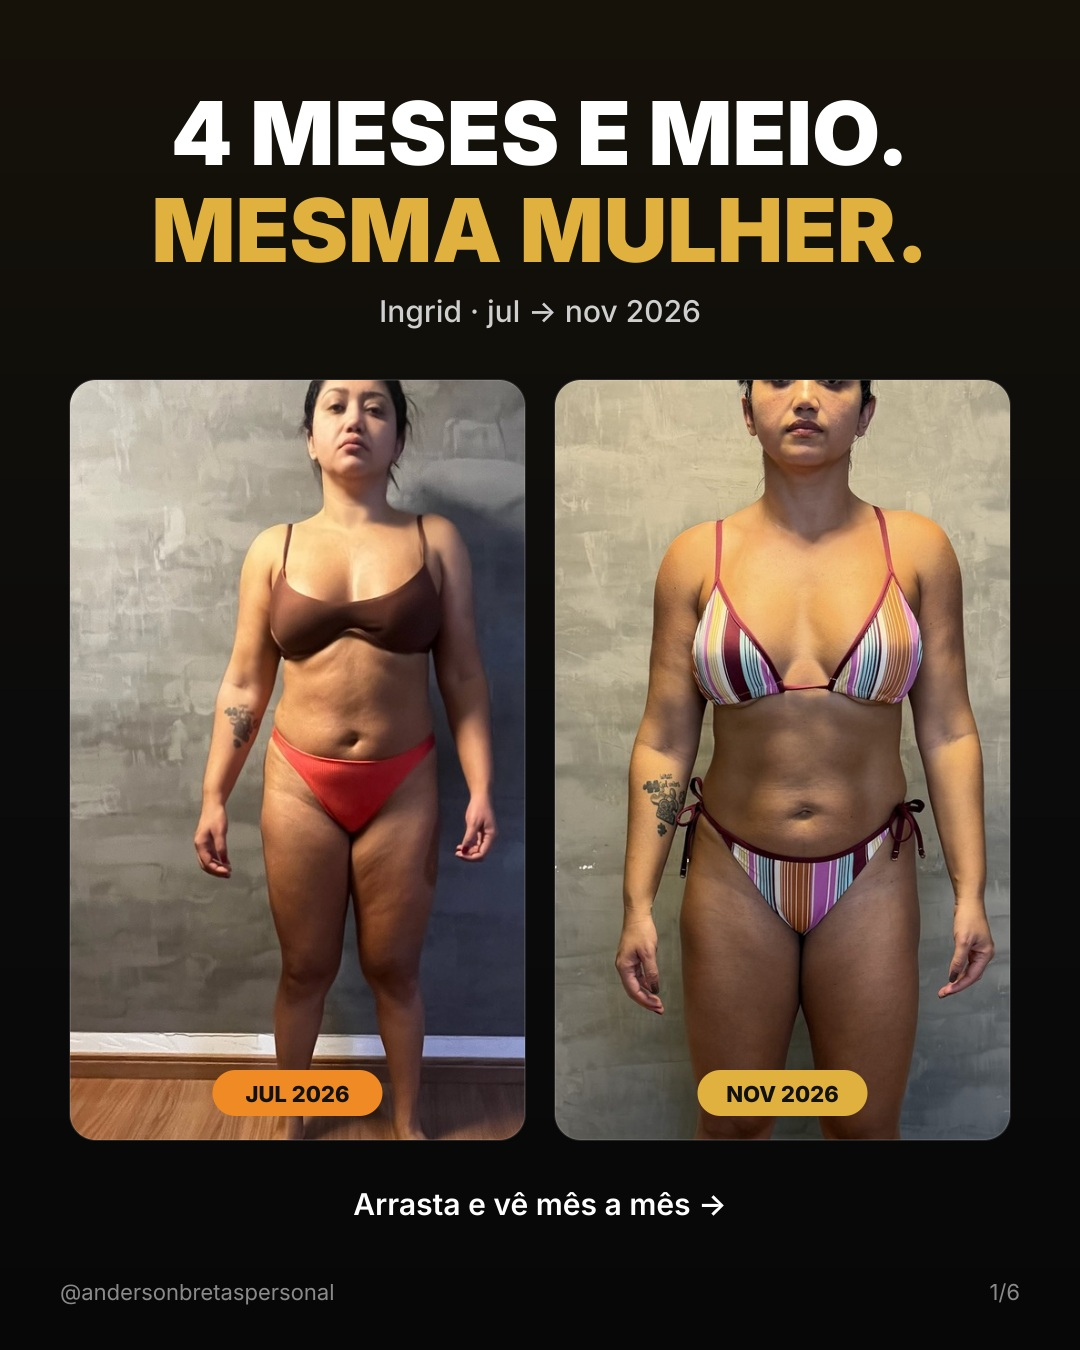
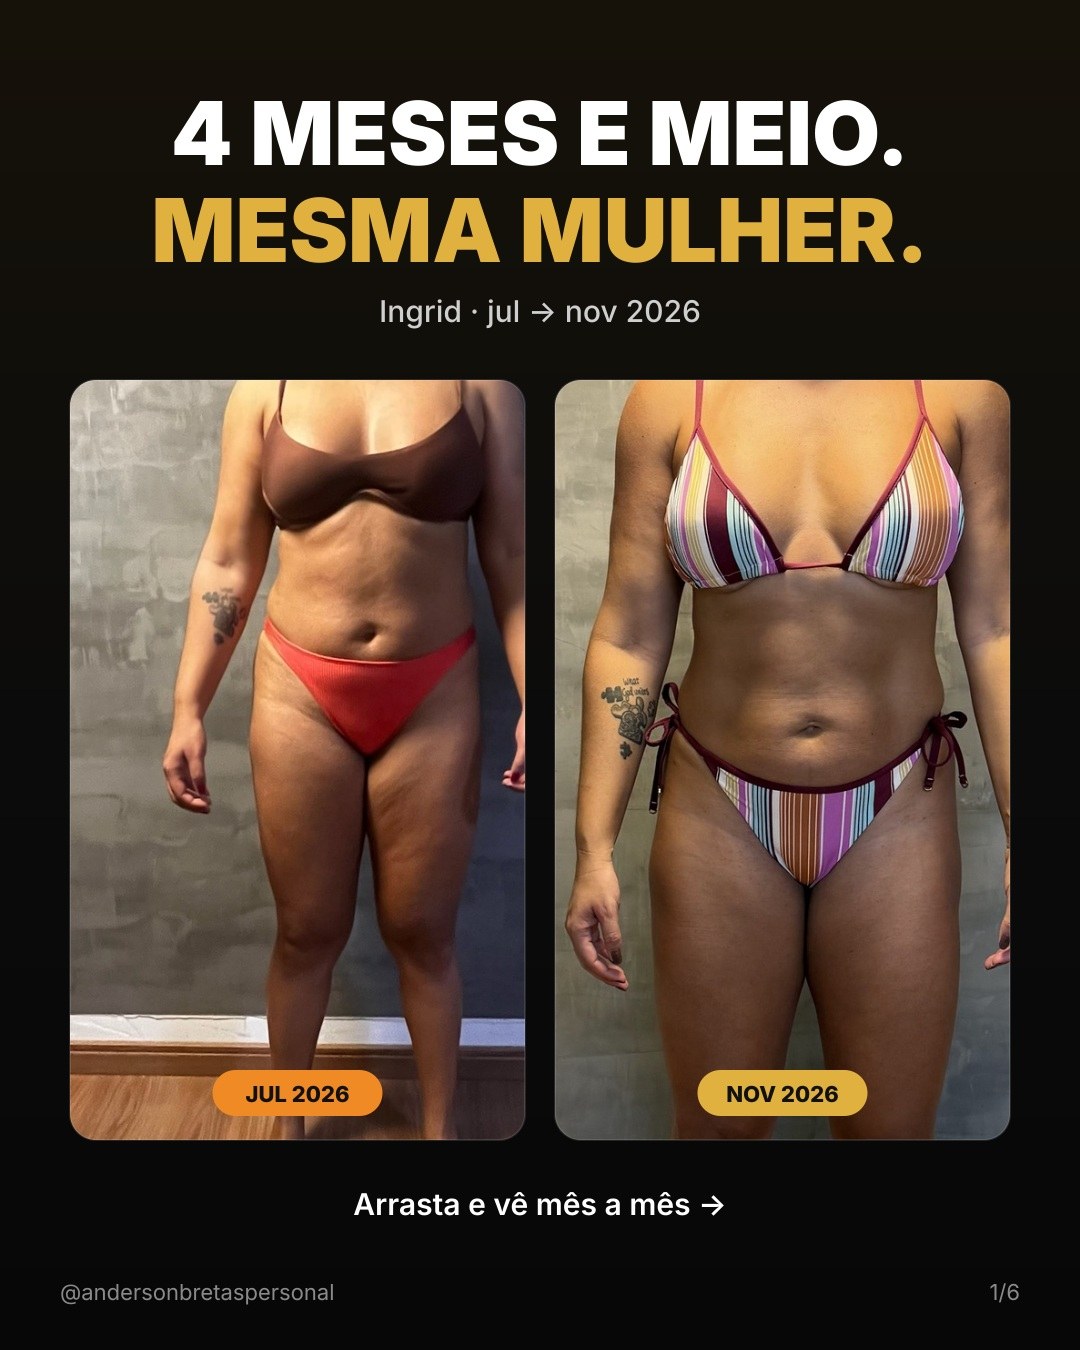
Carrossel Ingrid: rosto oculto (recorte do pescoço para baixo)
Claude-Session: https://claude.ai/code/session_01GoY5VqeCRihP75L9A3AqtK

diff --git a/instagram/carrossel-ingrid/gerar.py b/instagram/carrossel-ingrid/gerar.py
@@ -25,15 +25,16 @@ CORPO = {
     "IMG_5247": (113, 586, 219), "IMG_5598": (113, 613, 216), "IMG_6059": (113, 650, 214), "IMG_6989": (101, 558, 220),
     "IMG_5246": (123, 667, 229), "IMG_6988": (117, 728, 250),
 }
-def recorte(nome, aspecto=0.44, folga=1.16):
-    """Recorta a foto deixando o corpo do mesmo tamanho em todas as datas."""
+def recorte(nome, aspecto=0.44, sem_rosto=0.15):
+    """Recorta do pescoço para baixo (rosto oculto), corpo no mesmo tamanho em todas as datas."""
     im = Image.open(FOTOS / f"{nome}.jpg")
     k = im.height / 800
     topo, pes, cx = (v * k for v in CORPO[nome])
-    h = (pes - topo) * folga
+    pescoco = topo + (pes - topo) * sem_rosto
+    h = (pes - pescoco) * 1.05
     w = h * aspecto
-    cy = (topo + pes) / 2 + (pes - topo) * 0.01
-    box = [cx - w / 2, cy - h / 2, cx + w / 2, cy + h / 2]
+    y0 = pescoco
+    box = [cx - w / 2, y0, cx + w / 2, y0 + h]
     out = im.crop(tuple(int(v) for v in box)).resize((500, int(500 / aspecto)), Image.LANCZOS)
     p = TMP / f"{nome}.jpg"
     out.save(p, quality=93)
